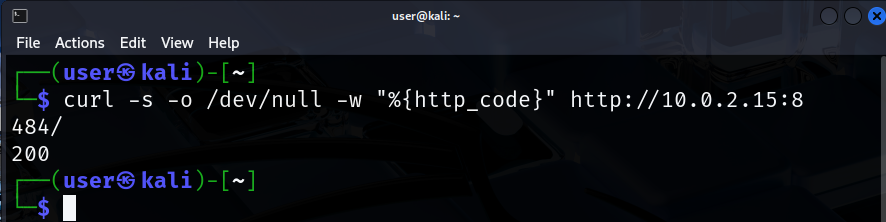
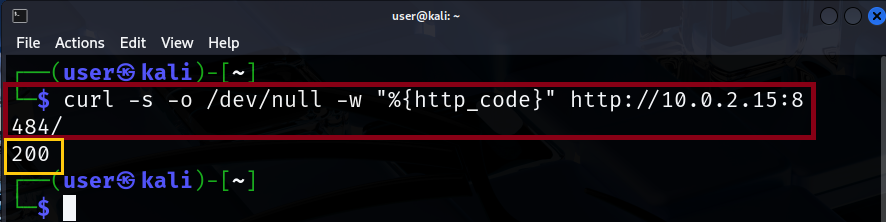
Mejora de contenido

Changed region(s): [[0.0, 0.3514, 0.9447, 0.8108]]

diff --git a/_posts/2026-06-20-Lab03-Kill-Chain-2.md b/_posts/2026-06-20-Lab03-Kill-Chain-2.md
@@ -4,12 +4,11 @@ date: 2026-06-20
 categories: [lab, setup]
 tags: [kill Chain2, jenkins, metasploitable, kali]
 ---
- **KILL CHAIN 2: Jenkins Script Console RCE** 
+## **KILL CHAIN 2: Jenkins Script Console RCE** 
 
 ## **1. ¿Qué es Groovy y por qué da acceso total?
-**
 
-Groovy es el lenguaje que usa Jenkins para ejecutar instrucciones dentro del servidor. Si una persona tiene acceso a la consola Groovy, puede darle órdenes directamente a la máquina donde está instalado Jenkins, como si estuviera sentado frente a ella. Por ejemplo, puede ver información del sistema, leer archivos, ejecutar programas o intentar detener servicios. Por eso se dice que Groovy puede dar mucho control sobre el servidor: no porque sea peligroso por sí mismo, sino porque permite que Jenkins haga prácticamente todo lo que tiene permitido hacer en esa computadora.
+**Groovy** es el lenguaje que usa Jenkins para ejecutar instrucciones dentro del servidor. Si una persona tiene acceso a la consola Groovy, puede darle órdenes directamente a la máquina donde está instalado **Jenkins**,** como si estuviera sentado frente a ella. Por ejemplo, puede ver información del sistema, leer archivos, ejecutar programas o intentar detener servicios. Por eso se dice que Groovy puede dar mucho control sobre el servidor: no porque sea peligroso por sí mismo, sino porque permite que Jenkins haga prácticamente todo lo que tiene permitido hacer en esa computadora.
 
 ## **2. Prerequisito: acceso a la red interna**
 En un entorno real, este tipo de servidor suele estar protegido y disponible únicamente para usuarios o equipos que ya se encuentran dentro de la infraestructura de la organización. Por ello, antes de iniciar este Kill Chain se asume que el atacante ya ha conseguido algún nivel de acceso previo, ya sea mediante el compromiso de otro equipo, el uso indebido de credenciales válidas o la colaboración de una persona con acceso autorizado. 
@@ -30,7 +29,7 @@ Para la presente práctica, esta situación se simuló colocando Kali y Metasplo
 ![KILL2.1.3](/assets/KILL2/KILL2.1.3.png)
 
 
-En **Metasploitable3, Jenkins** está configurado para funcionar directamente desde la ruta principal del servidor. Por ello, la consola de scripts se encuentra en **/script**. Si se intenta acceder usando una ruta como **/jenkins**, el servidor devuelve un **error 404 (página no encontrada)** porque esa ubicación no existe en esta configuración.
+En **Metasploitable3, Jenkins** está configurado para funcionar directamente desde la ruta principal del servidor. Por ello, la consola de scripts se encuentra en **/script**. Si se intenta acceder usando una ruta como **/jenkins**, el servidor devuelve un **Error 404 (página no encontrada)** porque esa ubicación no existe en esta configuración.
 
 Abrir el browser en Kali y navegar a:
 
@@ -38,9 +37,12 @@ Abrir el browser en Kali y navegar a:
      http://10.0.2.15:8484/script     #Abre Jenkins
 
 ![KILL2.2.1](/assets/KILL2/KILL2.2.1.png)
+
+En la consola Script de Jenkins:
+
 ![KILL2.2.2](/assets/KILL2/KILL2.2.2.png)
 
-En **GROOVY de Kali**: ingresar
+En **GROOVY de Kali**: 
 Lo que has demostrado es que desde la Script Console se pueden ejecutar comandos del sistema **(whoami, ipconfig)**.
 
      println "cmd /c whoami".execute().text
@@ -55,7 +57,6 @@ Lo que has demostrado es que desde la Script Console se pueden ejecutar comandos
 **NOTA 1:** El que salga como resultado: **nt authority\local service** significa que ***Jenkins*** está corriendo como la cuenta integrada de Windows llamada Local Service.
 
 **NOTA 2:** La explotación permitió la ejecución remota de comandos a través de Jenkins. El comando **whoami** reveló que los procesos se ejecutaban bajo la cuenta **NT AUTHORITY\LOCAL SERVICE**, indicando que la aplicación operaba con **privilegios restringidos** y no con privilegios administrativos."
-
 
 ## **4. IMPACTO: DENEGACIÓN DE SERVICIO (DoS)**
 ## 4.1. Detener el propio servicio Jenkins:
@@ -72,14 +73,14 @@ Se utilizó: Groovy de Jenkins
 
 ## 4.2. Detener servicios críticos de Windows:
 
-Detener el servidor de archivos SMB
+**Detener el servidor de archivos SMB**
 Código en Groovy:
 
      "cmd /c net stop lanmanserver".execute()
 
 ![KILL2.2.6](/assets/KILL2/KILL2.2.6.png)
 
-Detener el servicio de acceso remoto WinRM
+**Detener el servicio de acceso remoto WinRM**
 Código en Groovy:
    
      "cmd /c net stop winrm".execute()
@@ -90,9 +91,9 @@ Código en Groovy:
 
 Código en Groovy:
 
-     while (true) {
-         Thread.start { while (true) {} }
-     }
+    while (true) {
+        Thread.start { while (true) {} }
+    }
 
 ***NOTA:*** Este código crea una gran cantidad de tareas al mismo tiempo y hace que cada una trabaje sin detenerse nunca. Como resultado, el procesador (CPU) se satura cada vez más hasta que la computadora o el servicio se vuelven extremadamente lentos o dejan de responder. En términos simples, intenta consumir todos los recursos disponibles de la máquina para afectar su funcionamiento normal.
 
@@ -100,7 +101,7 @@ Código en Groovy:
 
 ![KILL2.2.8](/assets/KILL2/KILL2.2.8.png)
 
-**Carga de la página Jenkins** después del agotamiento: Vista de nueva pestaña con el URL de la página y vista del Script Console de Jenkins:
+**Carga de la página Jenkins después del agotamiento:** Vista de nueva pestaña con el URL de la página y vista del Script Console de Jenkins:
 
 ![KILL2.2.9](/assets/KILL2/KILL2.2.9.png)
 
@@ -139,7 +140,7 @@ Código en Groovy:
 
 ![KILL2.2.13](/assets/KILL2/KILL2.2.13.png)
 
-Creación del archivo basura denominado "bomb.txt". Ahora se visualizan 160 ítems.
+Creación del archivo basura denominado **"bomb.txt"**. Ahora se visualizan 160 ítems.
 
 ![KILL2.2.14](/assets/KILL2/KILL2.2.14.png)
 